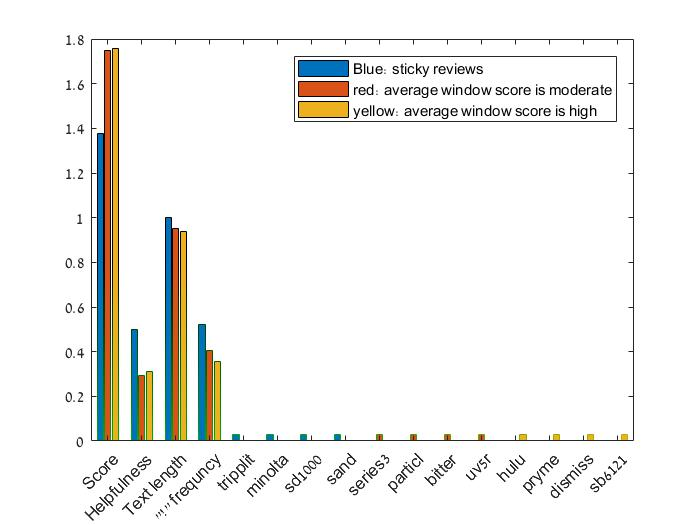
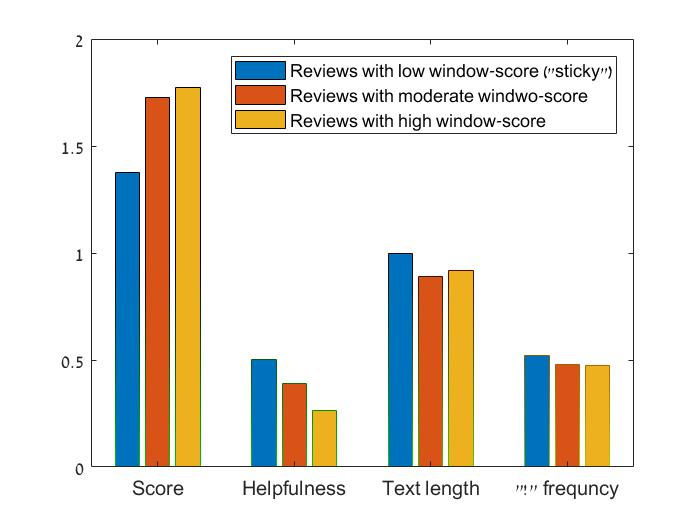
Add files via upload

diff --git a/main_sample4.m b/main_sample4.m
@@ -76,21 +76,22 @@ labels(5:end) = str_lCell;
 
 
 %category_name = categorical(labels);
-present_vec = 1:Nwords+4;
+present_vec = 1:4;
 close all
 figure(1)
 bar( features(present_vec,:) )
-%hAx=gca;            
-%hAx.XTickLabel=string(labels(5:end)); % label the ticks
+%labels1 = [{'Score'},{'Helpfulness'},{'Text Length';'(normalized)'},...
+%    {'"!" frequency'}]
+%xticklabels(labels1)
+
 xticks(present_vec)
 xticklabels(labels(present_vec))
-xtickangle(45)
+%xtickangle(45)
 legend('Reviews with low window-score ("sticky")','Reviews with moderate windwo-score',...
     'Reviews with high window-score')
 set(gca,'FontSize',12)
 
-
-
+%{'hello';'there'}
 
 
 
